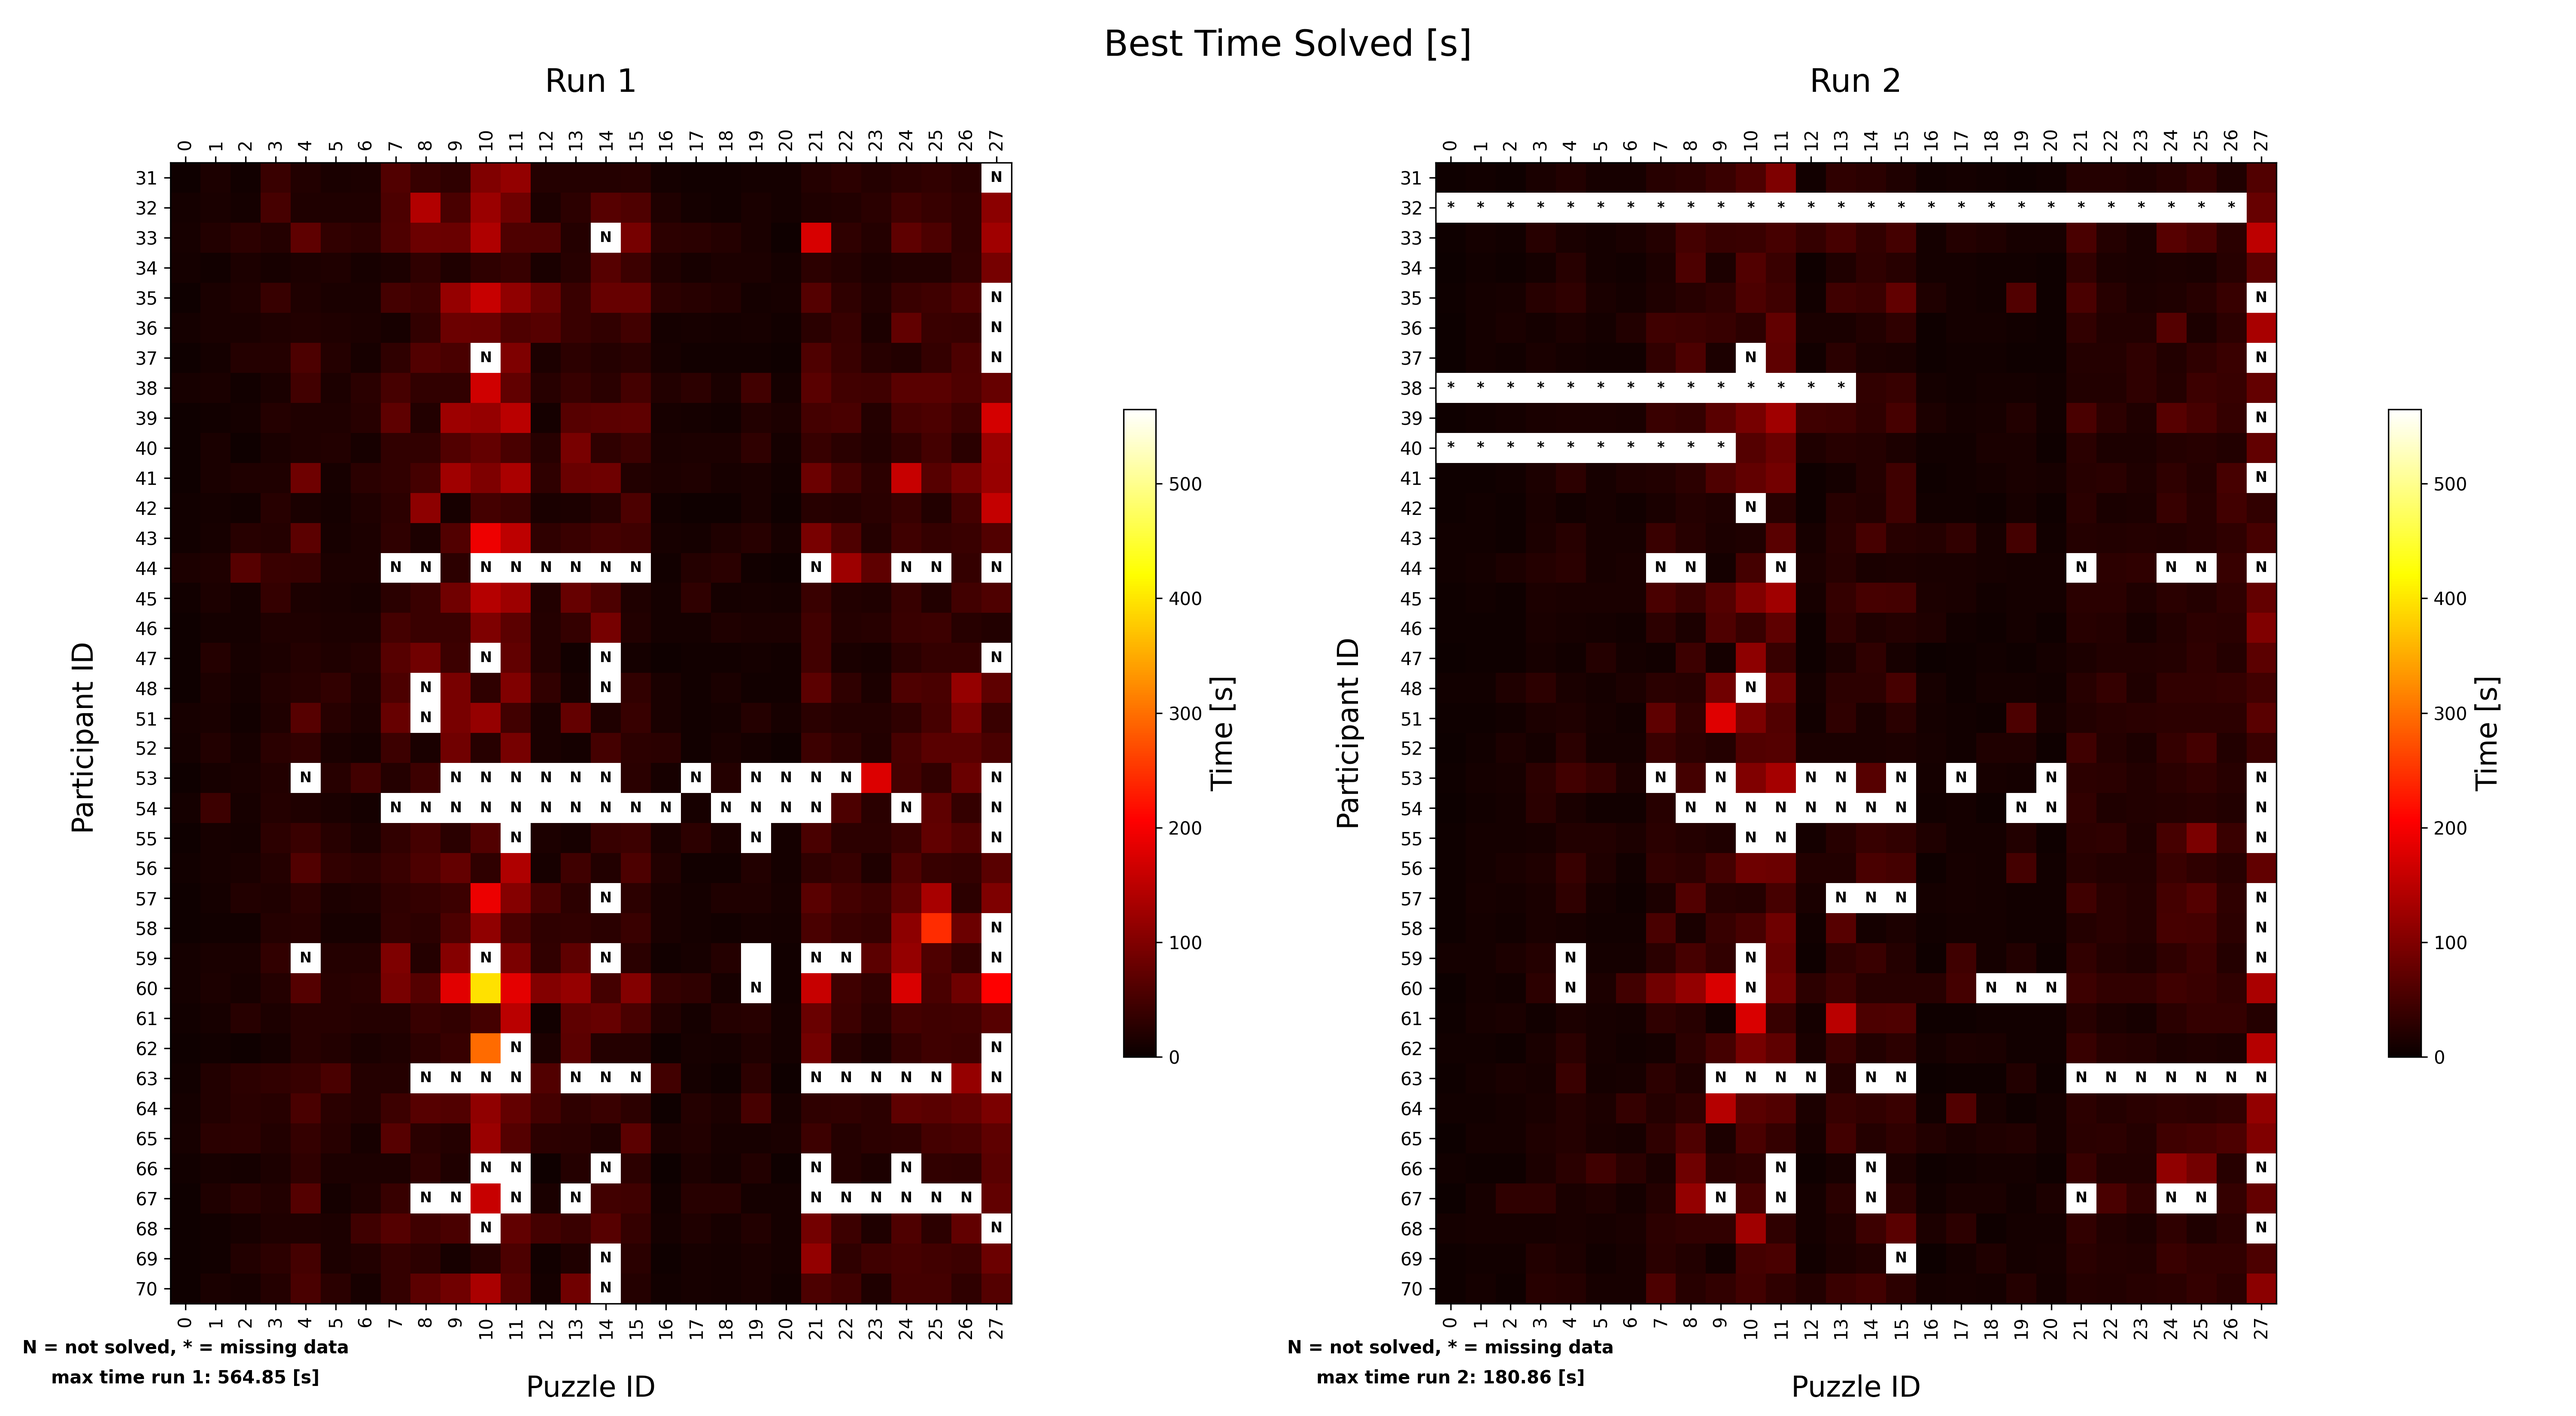
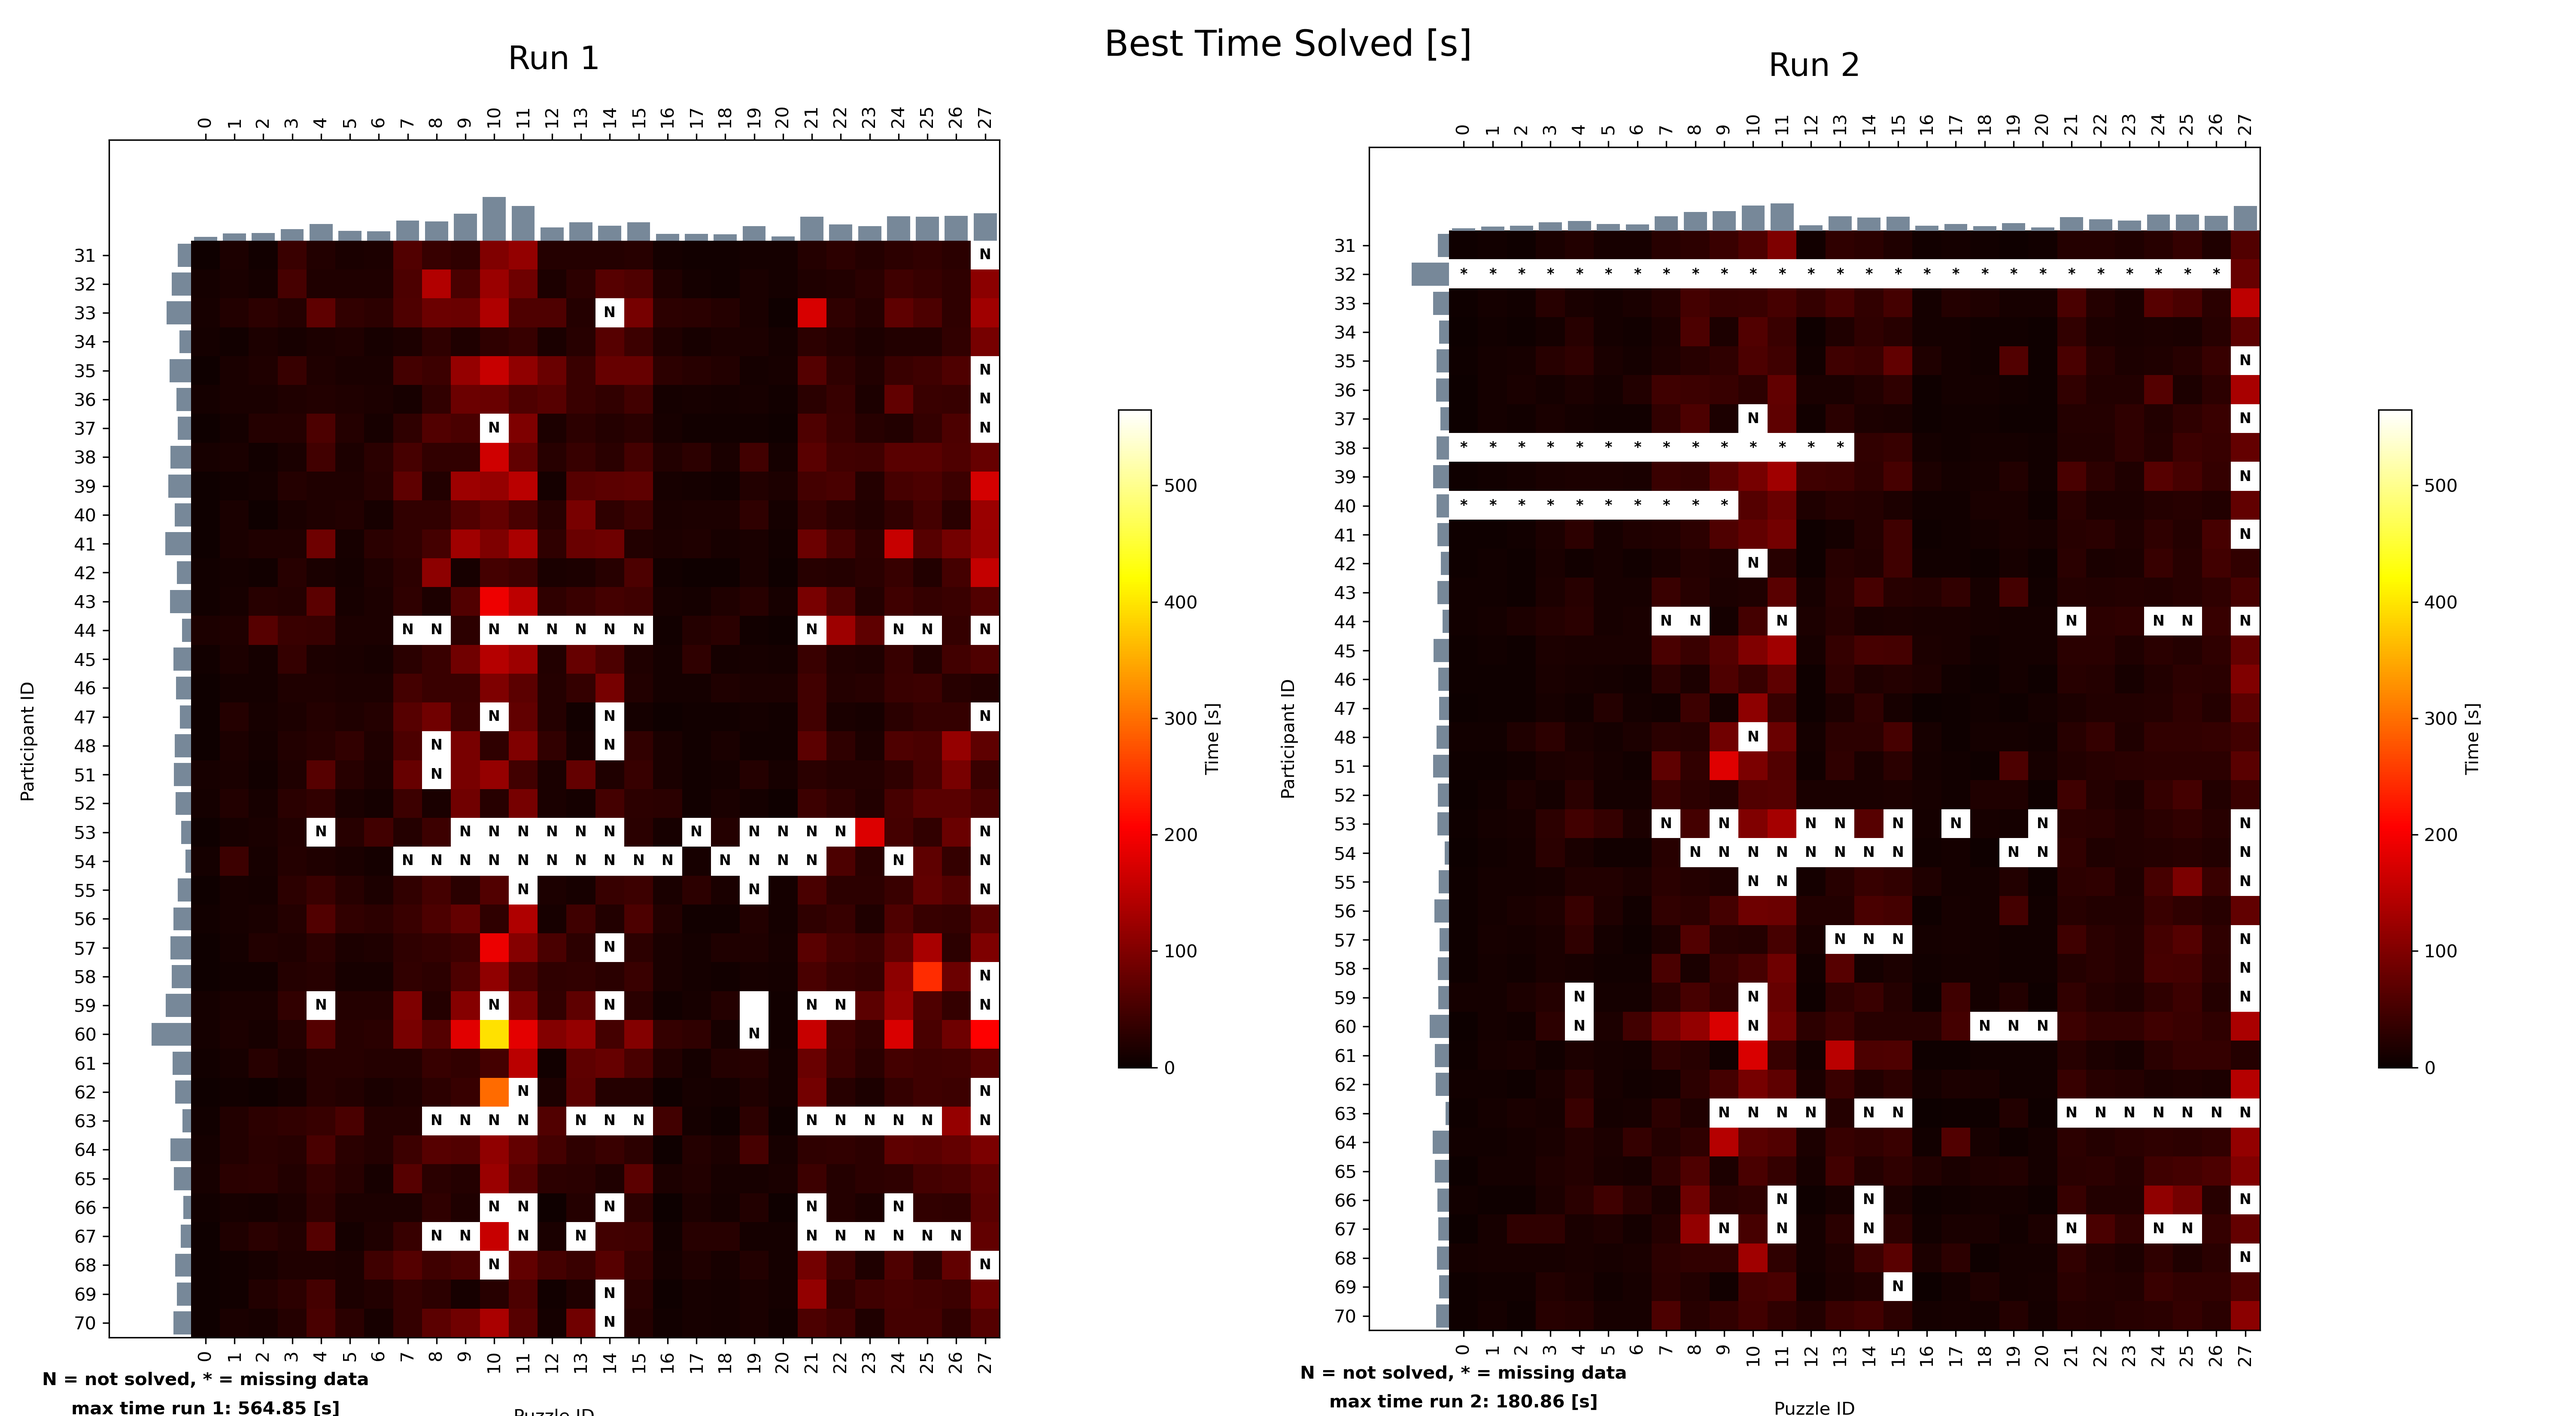
ad histogram of avg nu best time solved r puzzles per subjects

diff --git a/SRC/solvedTimeDist.py b/SRC/solvedTimeDist.py
@@ -194,6 +194,12 @@ plt.subplot(1, 2, 1)
 vmax = np.max(sol_matrix1_best[sol_matrix1_best != np.inf])
 plt.imshow(sol_matrix1_best, cmap="hot", vmax=vmax, vmin=0)
 
+rawsum1 = np.nanmean(np.where(np.isinf(sol_matrix1_best), -1, sol_matrix1_best), axis=1)/60
+plt.barh(y=np.arange(len(unique_participants)), width=-rawsum1, left=-0.5, color="lightslategray")
+
+columnsum1 = np.nanmean(np.where(np.isinf(sol_matrix1_best), -1, sol_matrix1_best), axis=0)/60
+plt.bar(x=np.arange(len(unique_puzzles)), height=-columnsum1, bottom=-0.5, color="lightslategray")
+
 for i in range(len(unique_participants)):
     for j in range(len(unique_puzzles)):
 
@@ -217,6 +223,13 @@ plt.colorbar( orientation='vertical', pad=0.1, shrink=0.5, label="Time [s]")
 
 plt.subplot(1, 2, 2)
 plt.imshow(sol_matrix2_best, cmap="hot", vmax=vmax, vmin=0)
+
+rawsum2 = np.nanmean(np.where(np.isinf(sol_matrix2_best), -1, sol_matrix2_best), axis=1)/60
+plt.barh(y=np.arange(len(unique_participants)), width=-rawsum2, left=-0.5, color="lightslategray")
+
+columnsum2 = np.nanmean(np.where(np.isinf(sol_matrix2_best), -1, sol_matrix2_best), axis=0)/60
+plt.bar(x=np.arange(len(unique_puzzles)), height=-columnsum2, bottom=-0.5, color="lightslategray")
+
 for i in range(len(unique_participants)):
     for j in range(len(unique_puzzles)):
 
@@ -245,33 +258,33 @@ plt.colorbar( orientation='vertical', pad=0.1, shrink=0.5, label="Time [s]")
 
 plt.savefig("./Data/bestTimeDistribution.png", dpi=300)
 #scale ascore and bScore between 1 and 10
-ascore = ascore*9+1
-bScore = bScore*9+1
-difScore = bScore*ascore
-difScore = difScore/np.max(difScore)
-difScore = difScore*9+1
+# ascore = ascore*9+1
+# bScore = bScore*9+1
+# difScore = bScore*ascore
+# difScore = difScore/np.max(difScore)
+# difScore = difScore*9+1
 
-plt.figure(figsize=(20,11))
-plt.suptitle(' attempt score - time score - diff score', fontsize=20)
-plt.subplot(1, 3, 1)
-plt.bar(unique_puzzles, ascore, color="black")
-plt.xticks(np.arange(len(unique_puzzles)), unique_puzzles, rotation=90)
-plt.yticks(np.arange(0, 11, 1))
-plt.xlabel("Puzzle ID" , labelpad=20)
-plt.ylabel("Score", labelpad=20)
-plt.yticks(np.arange(0, 11, 1))
-plt.subplot(1, 3, 2)
-plt.bar(unique_puzzles, bScore, color="black")
-plt.xticks(np.arange(len(unique_puzzles)), unique_puzzles, rotation=90)
-plt.xlabel("Puzzle ID" , labelpad=20)
-plt.ylabel("Score", labelpad=20)
-plt.yticks(np.arange(0, 11, 1))
-plt.subplot(1, 3, 3)
-plt.bar(unique_puzzles, difScore, color="black")
-plt.xticks(np.arange(len(unique_puzzles)), unique_puzzles, rotation=90)
-plt.xlabel("Puzzle ID" , labelpad=20)
-plt.ylabel("Score", labelpad=20)
-plt.yticks(np.arange(0, 11, 1))
-plt.tight_layout()
-plt.savefig("./Data/difScore.png", dpi=300)
-plt.close()
+# plt.figure(figsize=(20,11))
+# plt.suptitle(' attempt score - time score - diff score', fontsize=20)
+# plt.subplot(1, 3, 1)
+# plt.bar(unique_puzzles, ascore, color="black")
+# plt.xticks(np.arange(len(unique_puzzles)), unique_puzzles, rotation=90)
+# plt.yticks(np.arange(0, 11, 1))
+# plt.xlabel("Puzzle ID" , labelpad=20)
+# plt.ylabel("Score", labelpad=20)
+# plt.yticks(np.arange(0, 11, 1))
+# plt.subplot(1, 3, 2)
+# plt.bar(unique_puzzles, bScore, color="black")
+# plt.xticks(np.arange(len(unique_puzzles)), unique_puzzles, rotation=90)
+# plt.xlabel("Puzzle ID" , labelpad=20)
+# plt.ylabel("Score", labelpad=20)
+# plt.yticks(np.arange(0, 11, 1))
+# plt.subplot(1, 3, 3)
+# plt.bar(unique_puzzles, difScore, color="black")
+# plt.xticks(np.arange(len(unique_puzzles)), unique_puzzles, rotation=90)
+# plt.xlabel("Puzzle ID" , labelpad=20)
+# plt.ylabel("Score", labelpad=20)
+# plt.yticks(np.arange(0, 11, 1))
+# plt.tight_layout()
+# plt.savefig("./Data/difScore.png", dpi=300)
+# plt.close()
